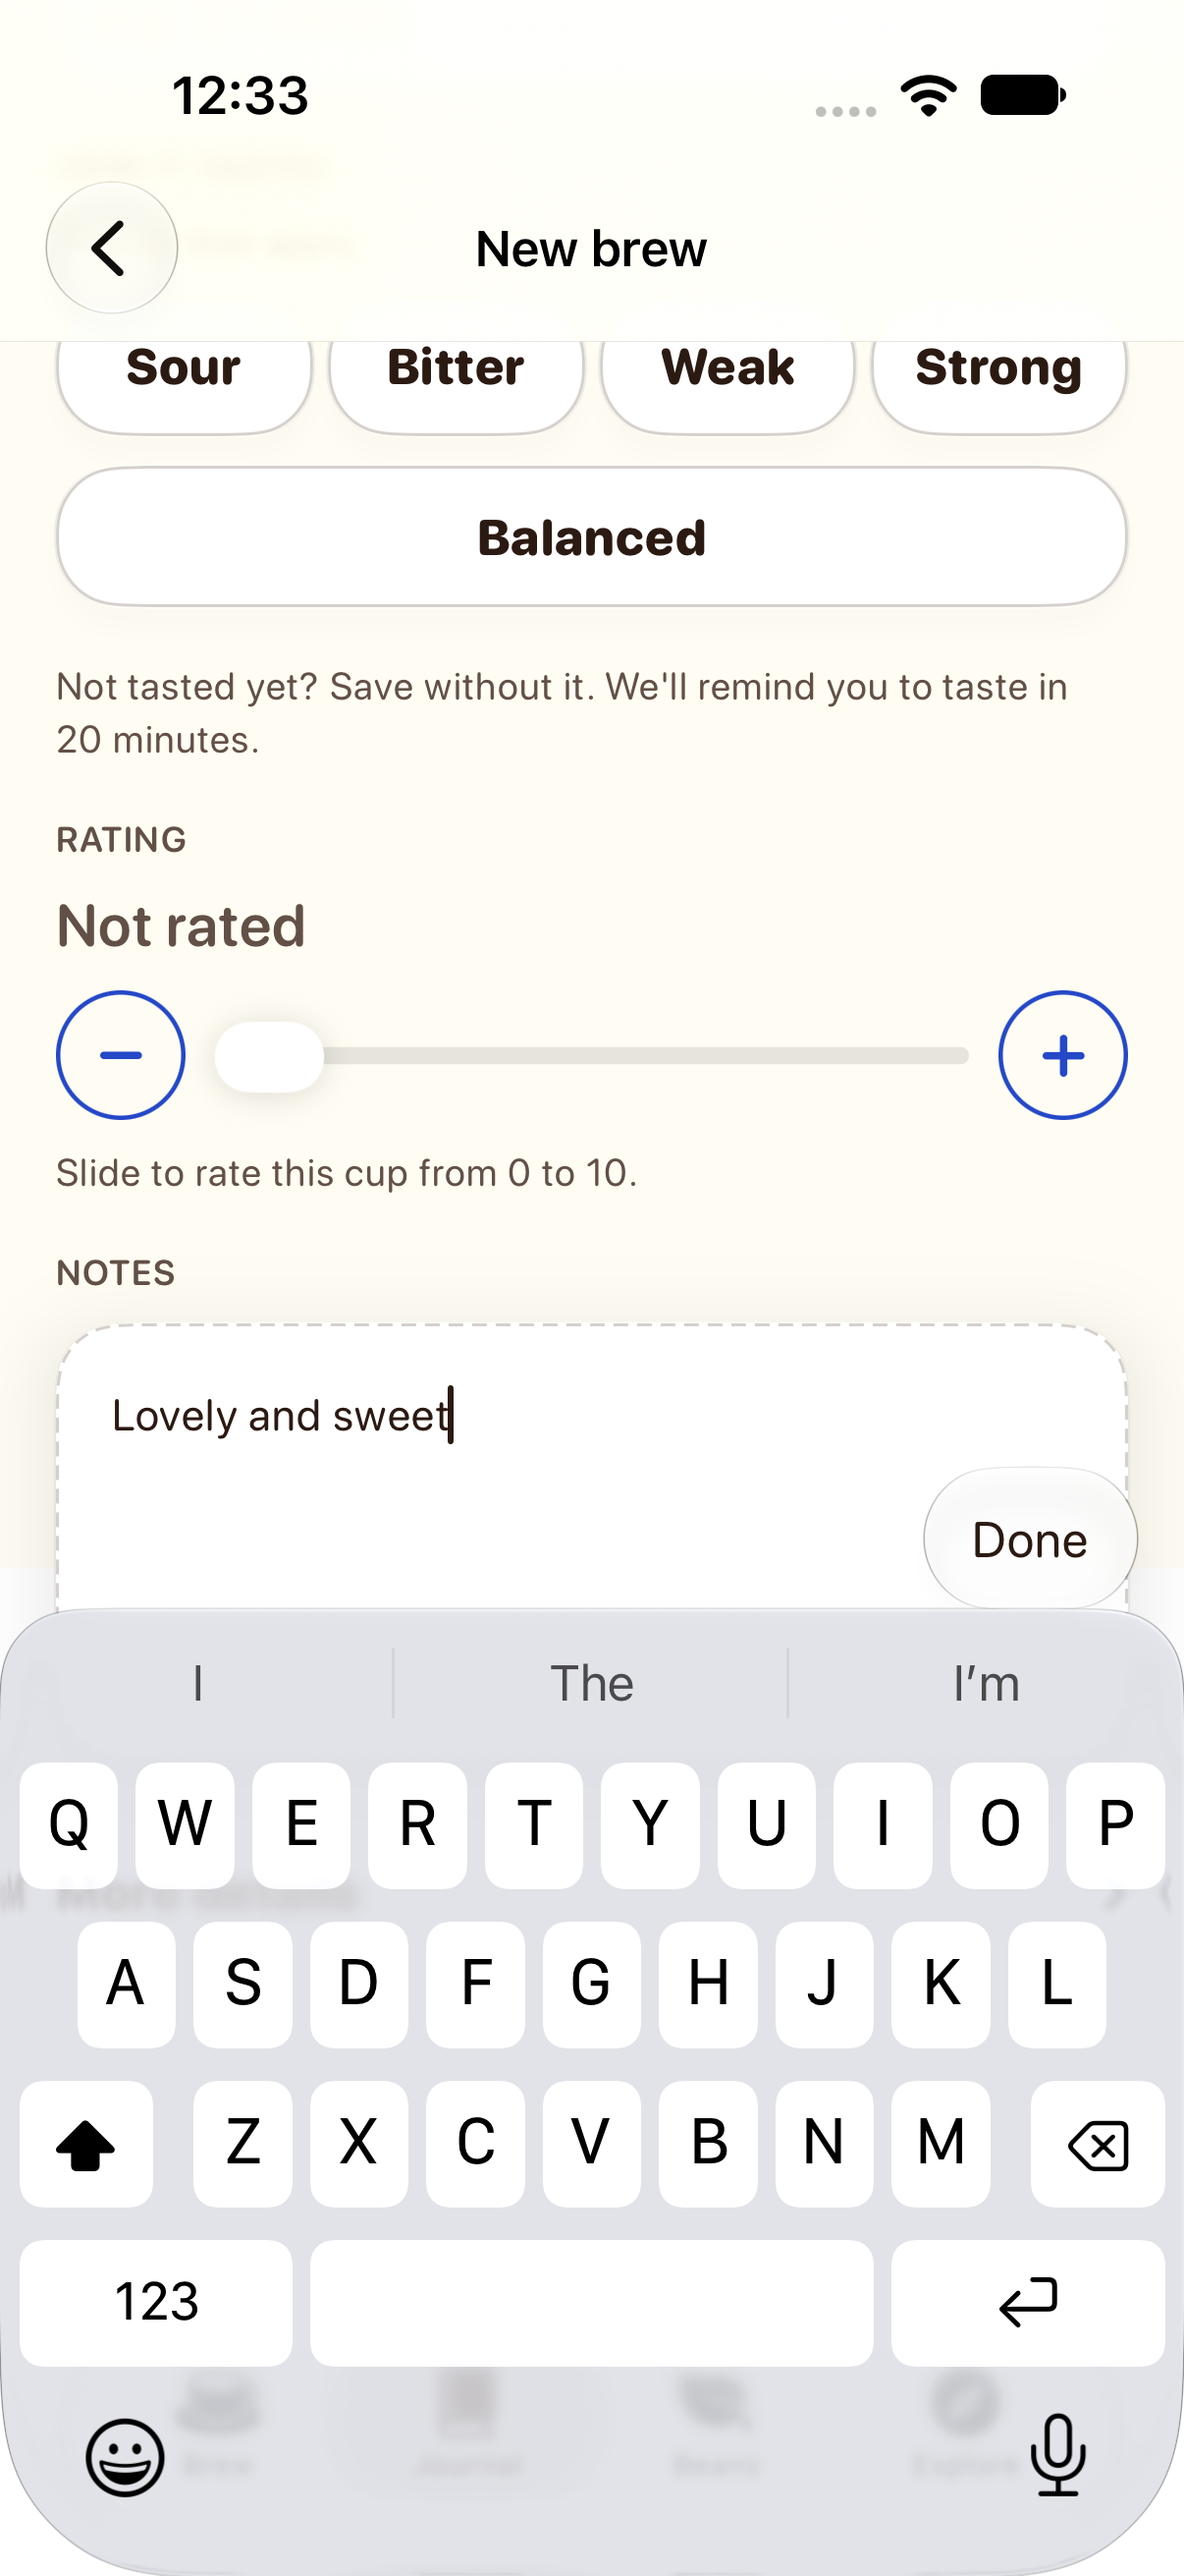
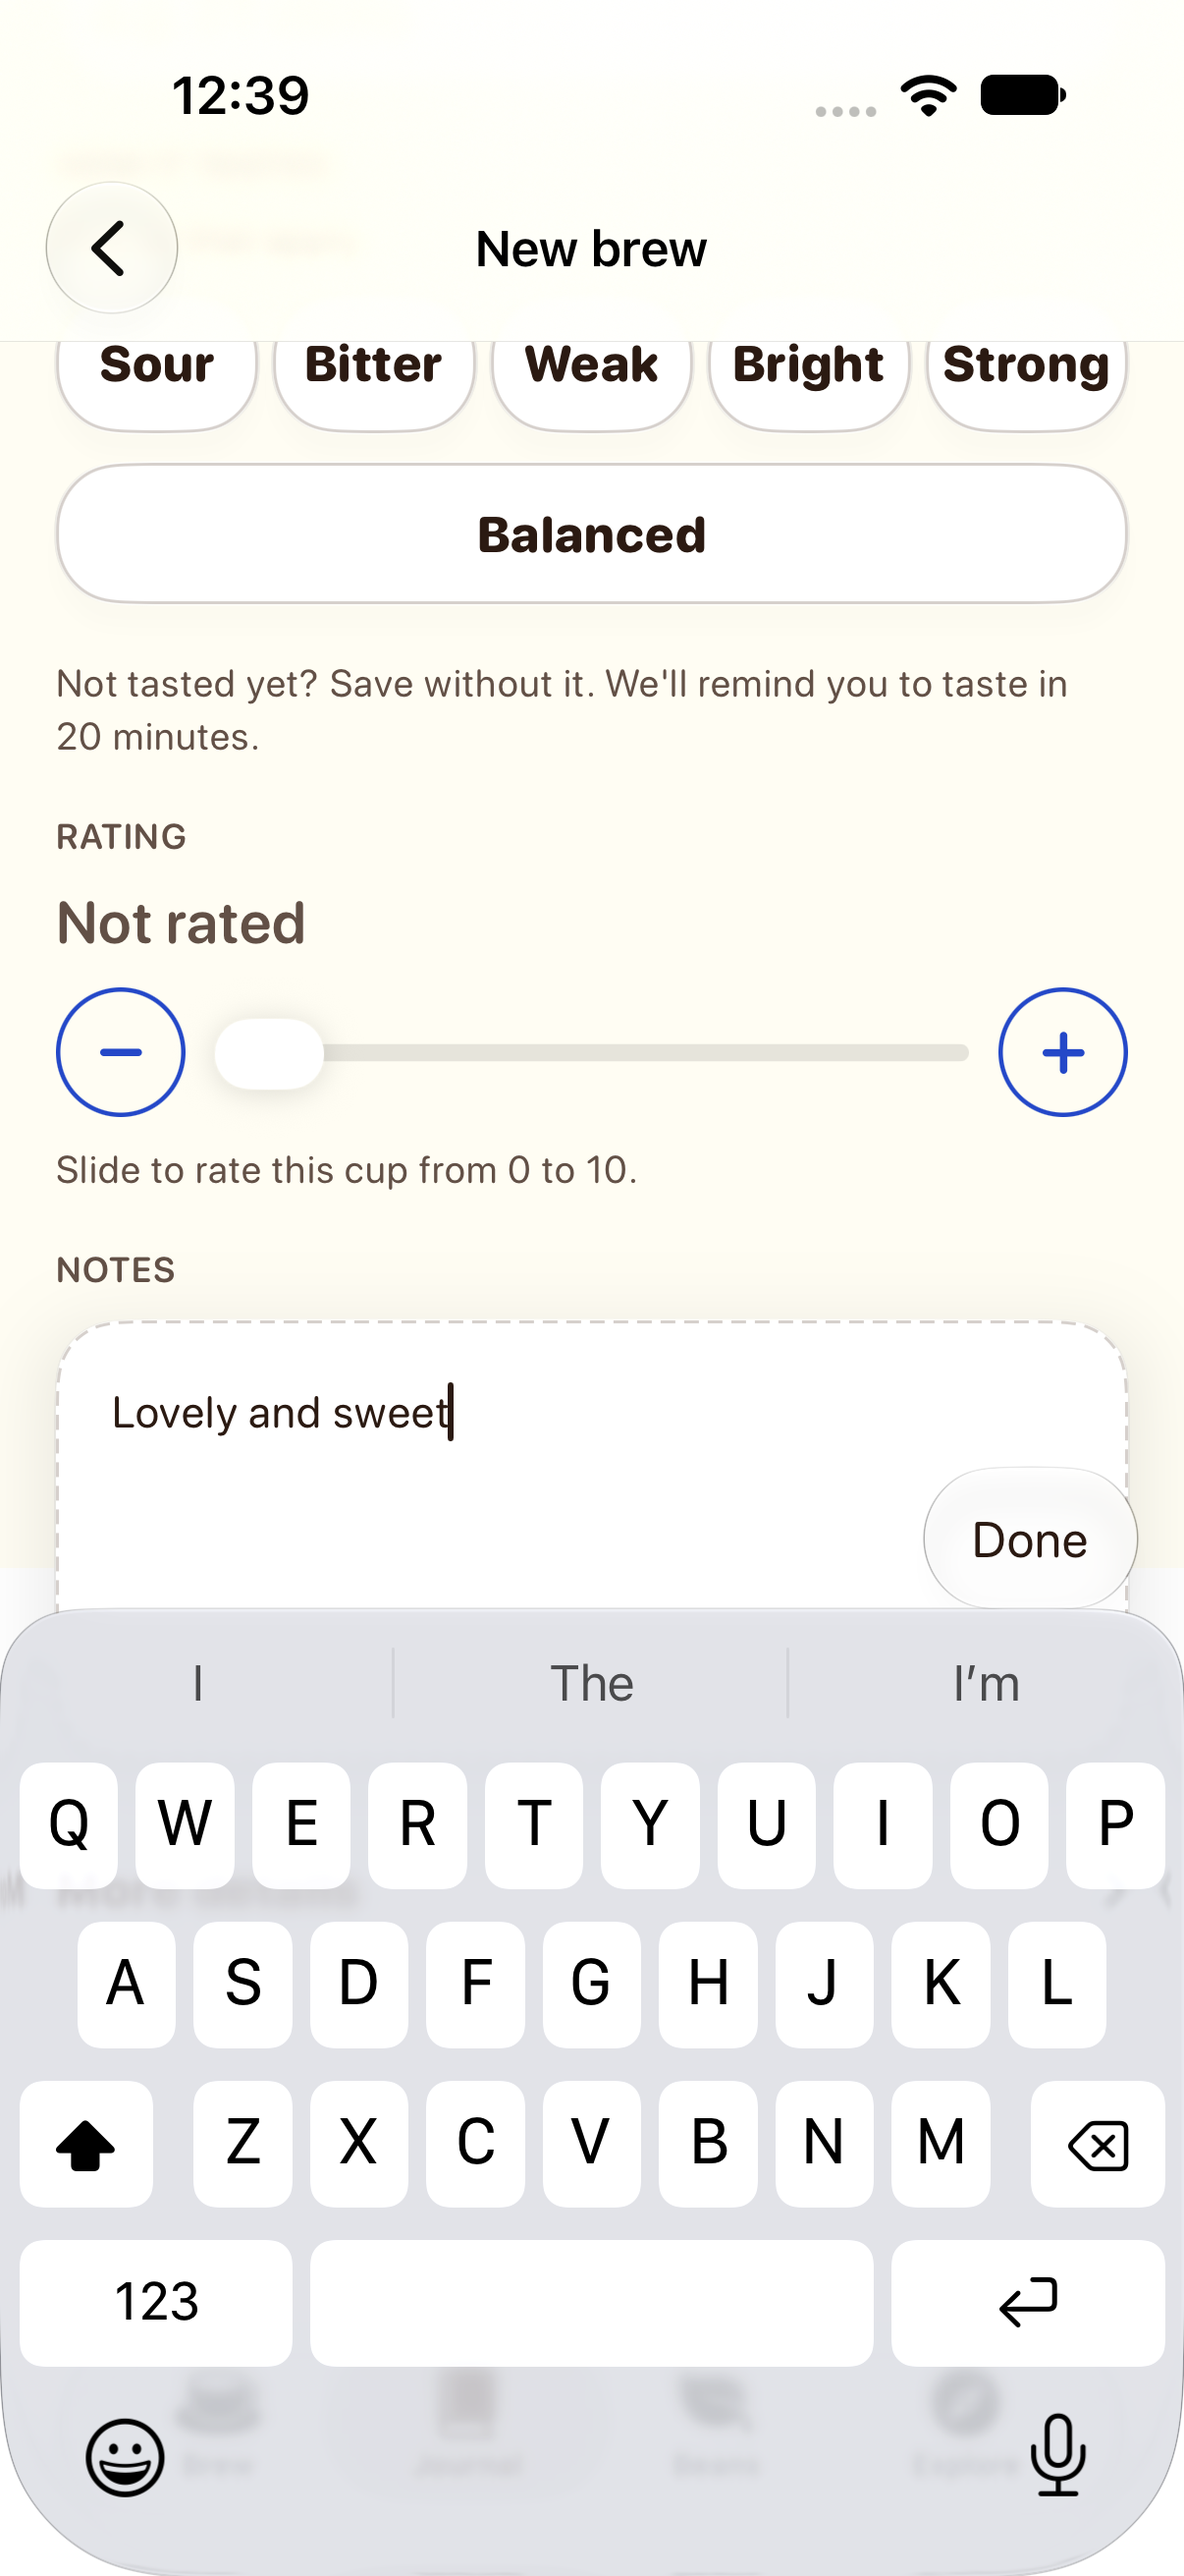
Add Bright as a taste, next to Weak
Bright is a good note: on its own it keeps the recipe, and a fault picked
with it decides the next-cup change.

diff --git a/NextCupTests/DialInSuggestionTests.swift b/NextCupTests/DialInSuggestionTests.swift
@@ -48,7 +48,8 @@ struct DialInSuggestionTests {
     /// Logs a brew through the real form model and returns the saved brew.
     @discardableResult
     func log(
-      _ verdict: Verdict?, bean: Bean? = nil, grind: String = "20", daysAgo: Int = 0
+      _ verdict: Verdict?, also: [Verdict] = [], bean: Bean? = nil, grind: String = "20",
+      daysAgo: Int = 0
     ) throws -> Brew {
       let model = model()
       model.draft.methodID = method.id
@@ -56,7 +57,7 @@ struct DialInSuggestionTests {
       model.draft.waterG = 250
       model.draft.tempC = 94
       model.draft.grindSetting = grind
-      model.draft.verdict = verdict?.rawValue
+      model.draft.verdict = Verdict.joined((verdict.map { [$0] } ?? []) + also)
       model.draft.date = Calendar.current.date(byAdding: .day, value: -daysAgo, to: Date())!
       if let bean { model.addBean(bean) }
       #expect(model.save())
@@ -85,7 +86,7 @@ struct DialInSuggestionTests {
   @Test func eachVerdictMakesWhatTheRulesSay() throws {
     let expected: [(Verdict, BrewParameter?, String?)] = [
       (.sour, .grind, "19"), (.bitter, .grind, "21"), (.weak, .water, "235"),
-      (.strong, .water, "270"), (.balanced, nil, nil),
+      (.strong, .water, "270"), (.balanced, nil, nil), (.bright, nil, nil),
     ]
     for (verdict, field, value) in expected {
       let harness = try Harness()
@@ -95,6 +96,12 @@ struct DialInSuggestionTests {
       #expect(stored.first?.toValue == value)
       #expect(stored.count == (field == nil ? 0 : 1))
     }
+  }
+
+  @Test func aFaultPickedWithBrightDecidesTheChange() throws {
+    let harness = try Harness()
+    try harness.log(.bright, also: [.sour])
+    #expect(try harness.suggestions().first?.toValue == "19")
   }
 
   @Test func noVerdictMakesNoSuggestion() throws {

diff --git a/NextCup/Features/Journal/BrewFormView.swift b/NextCup/Features/Journal/BrewFormView.swift
@@ -742,8 +742,8 @@ struct BrewFormView: View {
       ? AnyLayout(VStackLayout(spacing: DS.Space.xs))
       : AnyLayout(HStackLayout(spacing: DS.Space.xs))
     let picked = Verdict.picked(verdict.wrappedValue)
-    // The four faults share a row; Balanced gets a row of its own, so its name fits.
-    let rows: [[Verdict]] = [[.sour, .bitter, .weak, .strong], [.balanced]]
+    // The tastes share a row; Balanced gets a row of its own, so its name fits.
+    let rows: [[Verdict]] = [[.sour, .bitter, .weak, .bright, .strong], [.balanced]]
     return VStack(alignment: .leading, spacing: DS.Space.sm) {
       Text("HOW IT TASTED").font(DS.Font.label).foregroundStyle(DS.ink2)
       Text("Pick all that apply.").font(.footnote).foregroundStyle(DS.ink2)

diff --git a/Packages/NextCupKit/Sources/NextCupKit/DialIn/DialInRules.swift b/Packages/NextCupKit/Sources/NextCupKit/DialIn/DialInRules.swift
@@ -2,7 +2,7 @@ import Foundation
 
 /// How a cup tasted. Mirrors the app's stored verdict by raw value.
 public enum DialInVerdict: String, Codable, CaseIterable, Sendable {
-  case sour, bitter, weak, strong, balanced
+  case sour, bitter, weak, bright, strong, balanced
 }
 
 /// The brewing family, which decides which levers make sense. Mirrors the app's
@@ -102,6 +102,8 @@ public enum DialInRules {
       return firstChange([strength(input, stronger: true)], verdict: input.verdict)
     case .strong:
       return firstChange([strength(input, stronger: false)], verdict: input.verdict)
+    case .bright:
+      return .keep("A bright cup is lively, not sour. Brew it again the same way.")
     }
   }
 

diff --git a/Packages/NextCupKit/Tests/NextCupKitTests/DialInRulesTests.swift b/Packages/NextCupKit/Tests/NextCupKitTests/DialInRulesTests.swift
@@ -126,8 +126,15 @@ struct DialInRulesTests {
     #expect(change(DialInRules.suggest(for: input(.strong, water: 0))) == nil)
   }
 
+  @Test func brightKeepsEverything() {
+    guard case .keep = DialInRules.suggest(for: input(.bright)) else {
+      Issue.record("bright is a good note, not a fault to fix")
+      return
+    }
+  }
+
   @Test func everyChangeCarriesAReason() {
-    for verdict in DialInVerdict.allCases where verdict != .balanced {
+    for verdict in DialInVerdict.allCases where ![.balanced, .bright].contains(verdict) {
       let draft = change(DialInRules.suggest(for: input(verdict)))
       #expect(draft?.rationale.isEmpty == false)
     }

diff --git a/NextCup/Features/DialIn/SuggestionService.swift b/NextCup/Features/DialIn/SuggestionService.swift
@@ -19,7 +19,9 @@ struct SuggestionService {
     }
     for old in made { store.context.delete(old) }
 
-    guard let verdict = brew.verdict.flatMap({ DialInVerdict(rawValue: $0.rawValue) }) else {
+    // Bright is a good note, so a fault picked with it decides the change.
+    let tasted = brew.verdicts.first { $0 != .bright } ?? brew.verdict
+    guard let verdict = tasted.flatMap({ DialInVerdict(rawValue: $0.rawValue) }) else {
       return commit(.keep("Choose how it tasted to get a suggestion."))
     }
     let outcome = DialInRules.suggest(for: input(for: brew, verdict: verdict))

diff --git a/NextCup/Persistence/Enums.swift b/NextCup/Persistence/Enums.swift
@@ -4,7 +4,7 @@ import Foundation
 /// so renaming a case is a schema migration.
 
 enum Verdict: String, Codable, CaseIterable, Sendable {
-  case sour, bitter, weak, strong, balanced
+  case sour, bitter, weak, bright, strong, balanced
 
   /// The draft keeps several tastes in its one field, comma-separated ("sour,weak"), so a
   /// single taste saved before reads the same.

diff --git a/NextCup/Features/DailyLoop/DailyLoop.swift b/NextCup/Features/DailyLoop/DailyLoop.swift
@@ -210,6 +210,7 @@ struct TasteView: View {
 
   private static let words: [(Verdict, String)] = [
     (.sour, "Sharp, thin, lemony"), (.bitter, "Dry, harsh, ashy"), (.weak, "Watery, light"),
+    (.bright, "Lively, juicy, fruity"),
     (.strong, "Heavy, intense"), (.balanced, "Sweet, round, clean"),
   ]
 
